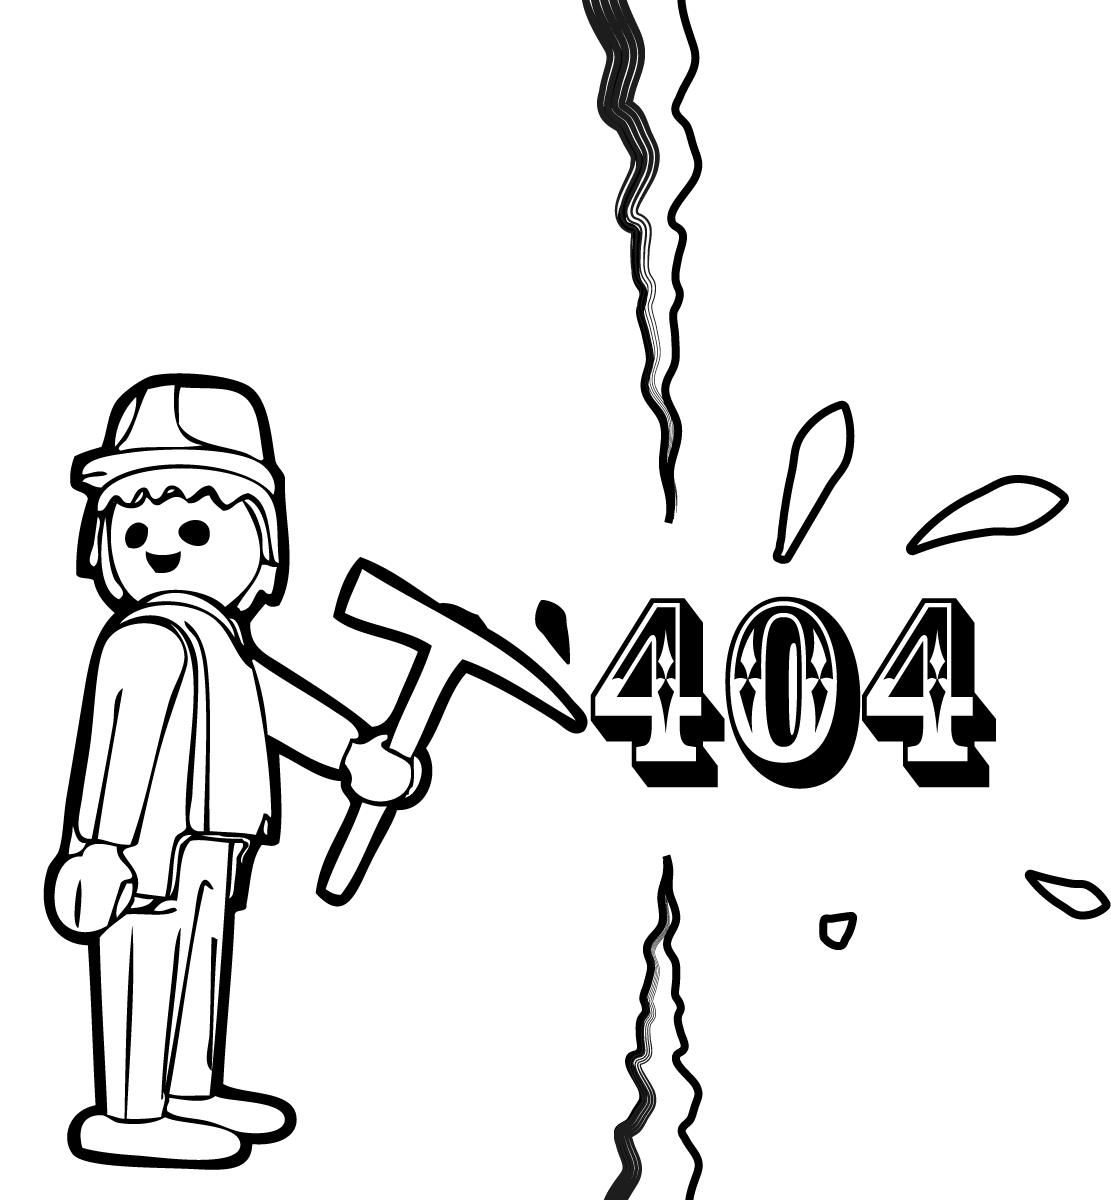
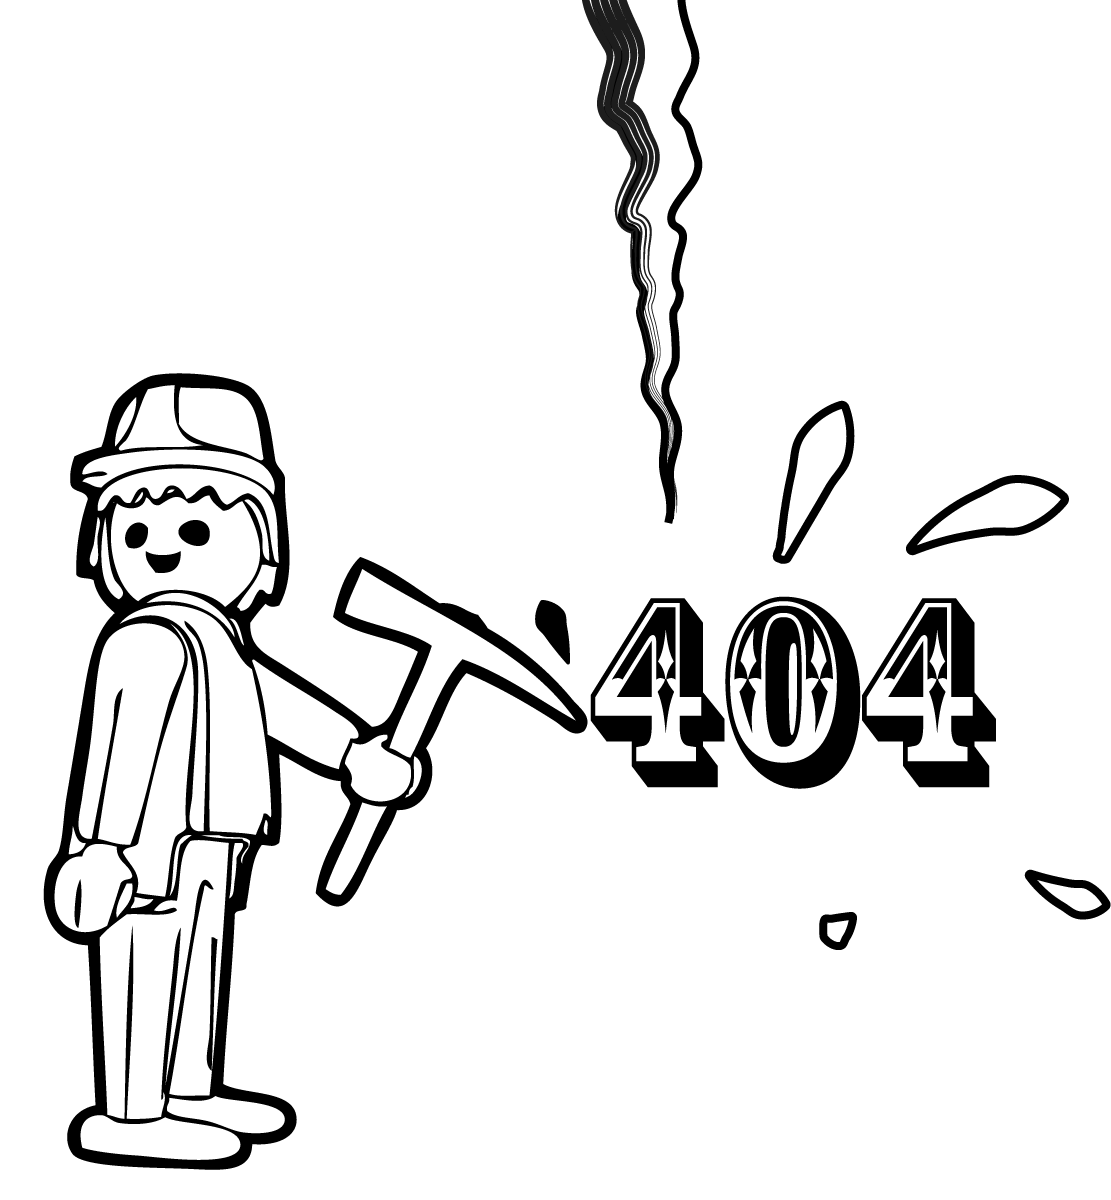
update

Changed region(s): [[0.5203, 0.7092, 0.6427, 1.0]]

diff --git a/public/assets/css/style.css b/public/assets/css/style.css
@@ -2,6 +2,8 @@ html, body {
 	font-family: 'Advent Pro', sans-serif;
 	background-color: #ffffff;
 	color: #000000;
+	margin: 0;
+	padding: 0;
 }
 
 .container {
@@ -1505,3 +1507,5 @@ td {
 	color: #999;
 	border: 2px dotted #ddd;
 }
+
+/*404.php*/

diff --git a/app/Views/layout.php b/app/Views/layout.php
@@ -4,20 +4,39 @@
 	<meta charset="UTF-8">
 	<title><?= $this->e($title) ?></title>
 
-	<link rel="stylesheet" href="<?= $this->assetUrl('css/style.css') ?>">
+	<!--google fonts-->
+    <link href="https://fonts.googleapis.com/css?family=Advent+Pro:400,700" rel="stylesheet"> 
+	<link href="https://fonts.googleapis.com/css?family=Roboto:300" rel="stylesheet"> 
+    <!--fontawsome style-->
+    <link rel="stylesheet" href="<?= $this->assetUrl('css/font-awesome.min.css') ?>">
+    <!-- bootstrap style-->
+    <link rel="stylesheet" href="<?= $this->assetUrl('css/bootstrap.css') ?>">
+    <!-- styles index-->
+    <link rel="stylesheet" href="<?= $this->assetUrl('css/style.css') ?>">
+    <link rel="stylesheet" href="<?= $this->assetUrl('css/mediaquery.css') ?>">
+    <!-- styles page event-->
+    <link rel="stylesheet" href="<?= $this->assetUrl('css/stylebis.css') ?>">
+    <link rel="stylesheet" href="<?= $this->assetUrl('css/eventmediaquery.css') ?>">
 </head>
 <body>
-	<div class="container">
-		<header>
-			<h1>W :: <?= $this->e($title) ?></h1>
+	<div class="">
+		<!--<header>
+			
 		</header>
-
+-->
 		<section>
 			<?= $this->section('main_content') ?>
 		</section>
 
-		<footer>
-		</footer>
+		<!--<footer>
+		</footer>-->
 	</div>
+	
+<!--jquery js-->
+    <script src="<?= $this->assetUrl('js/jquery-3.1.1.min.js') ?>"></script>   
+    <!--Plugin Jquery, confirm -->
+    <script src="<?= $this->assetUrl('js/jquery-confirm.min.js') ?>"></script>
+    <!--bootstrap js-->
+   <script src="<?= $this->assetUrl('js/bootstrap.min.js') ?>"></script>
 </body>
 </html>

diff --git a/app/Views/w_errors/404.php b/app/Views/w_errors/404.php
@@ -1,5 +1,16 @@
 <?php $this->layout('layout', ['title' => 'Perdu ?']) ?>
 
 <?php $this->start('main_content'); ?>
-<h1>404. Perdu ?</h1>
+<div class="row">
+	<div class="col-md-2">
+	
+	</div>
+	<div class="col-md-8">
+		<img class="img-responsive" src="<?=$this->assetUrl('/img/page404.png');?>" style="width:60%;margin:0 auto;">
+	</div>
+	<div class="col-md-2">
+	
+	</div>
+</div>
+
 <?php $this->stop('main_content'); ?>
